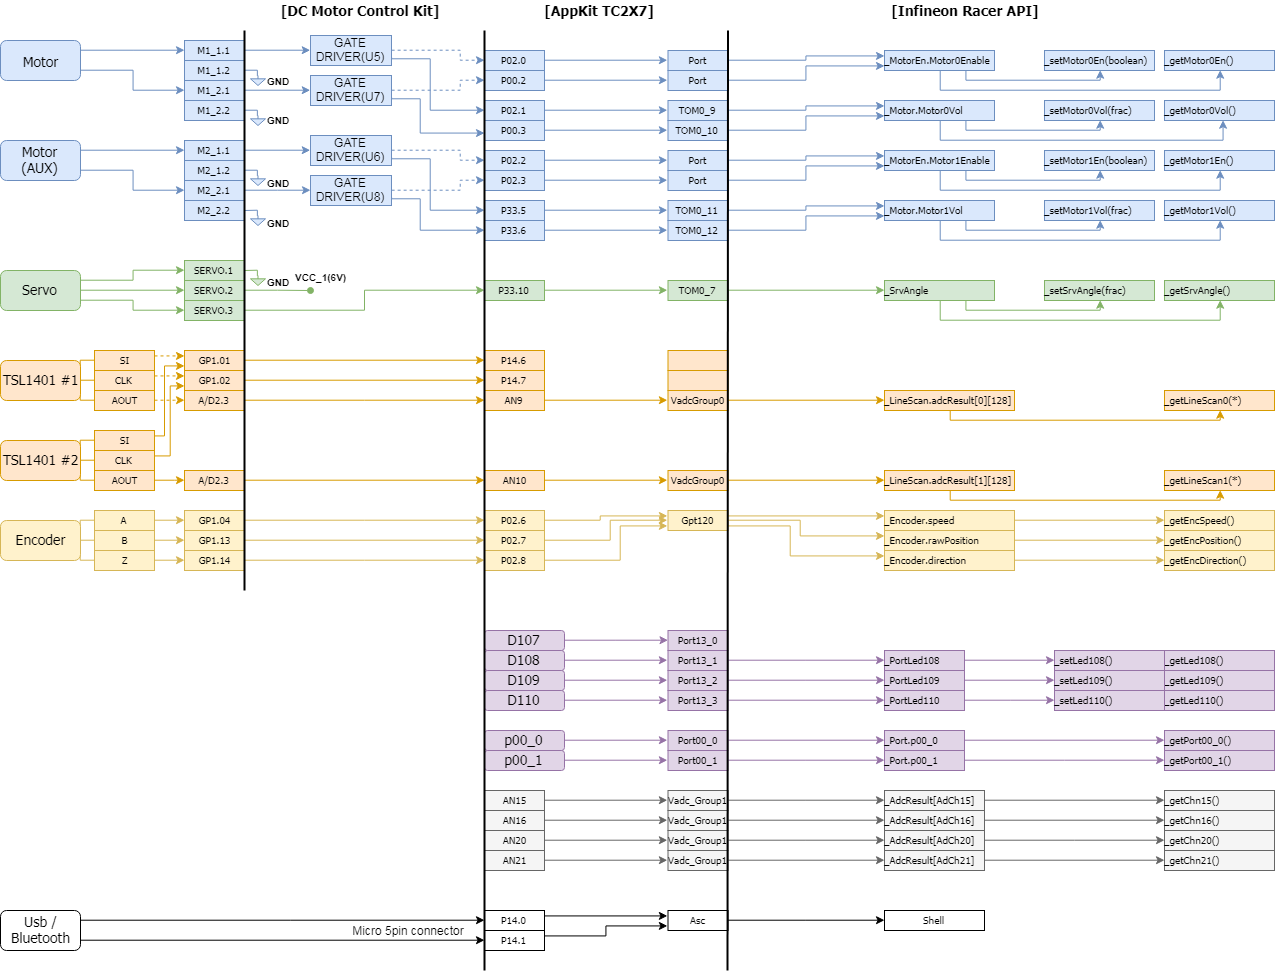
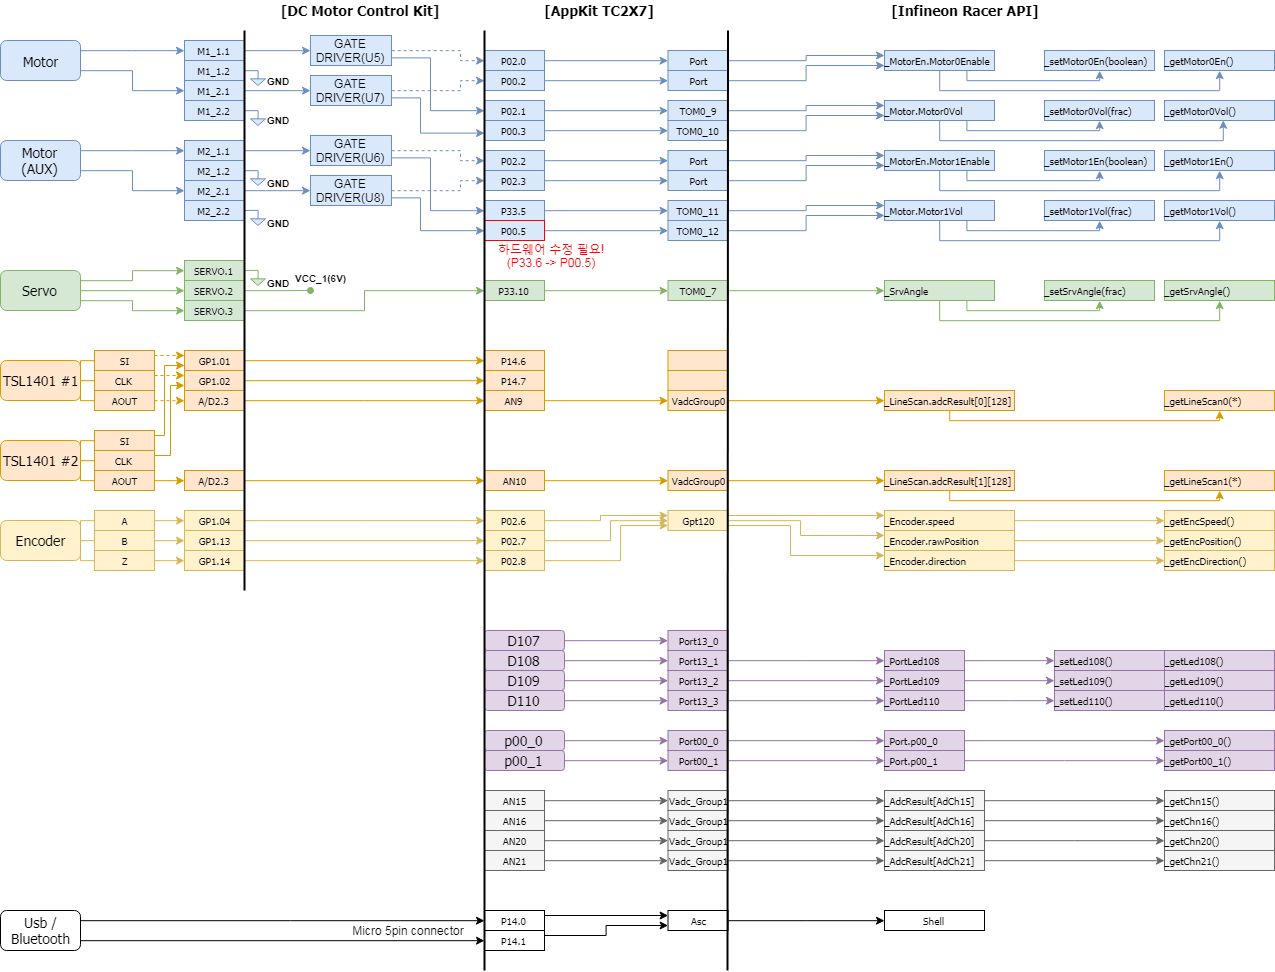
Connection guide, connection guide에서 하드웨어 수정 부분 추가

diff --git a/docs/ConnectionGuide.md b/docs/ConnectionGuide.md
@@ -9,20 +9,26 @@ date: 2018-01-30
 ## Components
 *   Application Kit TC2X7 V1.0
 *   DC Motor Control Kit (Infineon Released)
-*   ???DC Motor??? <= Need to update
-*   ???Servo??? <= Need to update
+    *  보조모터 사용을 위한 하드웨어 수정 필요
+*   DC Motor
+*   Servo motor
 *   CCD (TSL1401 X 2)
-*   ???Incremental Encoder 1024(/512/256) PPR??? *<=Need to update*
-
+*   Incremental Encoder 1024(/512/256) PPR
+    * E30S4-1024-3-N-5 사용
 
 ## Connection Diagram
+* *DC Motor Control Kit* 과 *Application Kit TC2X7 V1.0* 의 경우 별도의 하드웨어 작업 없이 커넥터 연결
+* USB/Blutooth 모듈은 *Application Kit TC2X7 V1.0* 에 내장되어 있는 Micro-5Pin connector를 이용하여 연결 가능
 
 ![ConnectionDiagram](images/ConnectionDiagram.png)
 
+## Hardware Modification of Motor Driver Kit
+* M2_1과 M2_2를 이용해 모터를 구동하기 위해서 Gate driver (U8)의 *IN* 신호로 들어가는 *P33.6* 신호를 *GP1.06(P00.5)* 로 변경하여 사용 해야함 (그림 참조)
+* 납땜 시 주변에 깔려있는 구리(GND)와 합선되지 않게 주의 필요
 
+![MotorDriver](images/ConnectionGuide_MotorDriver.png)
 
 * !ToDo
-  * 실물의 모델 정보 정확하게 반영
-  * 외부 구성 요소와 보드와의 연결 핀 정보 구체적으로 기술
-  * Board 에서 수정할 사항
-
+  * 실물의 모델 정보 정확하게 반영 - 모터와 서보모터 스펙 필요
+  * 외부 구성 요소와 보드와의 연결 핀 정보 구체적으로 기술 o
+  * Board 에서 수정할 사항 o
